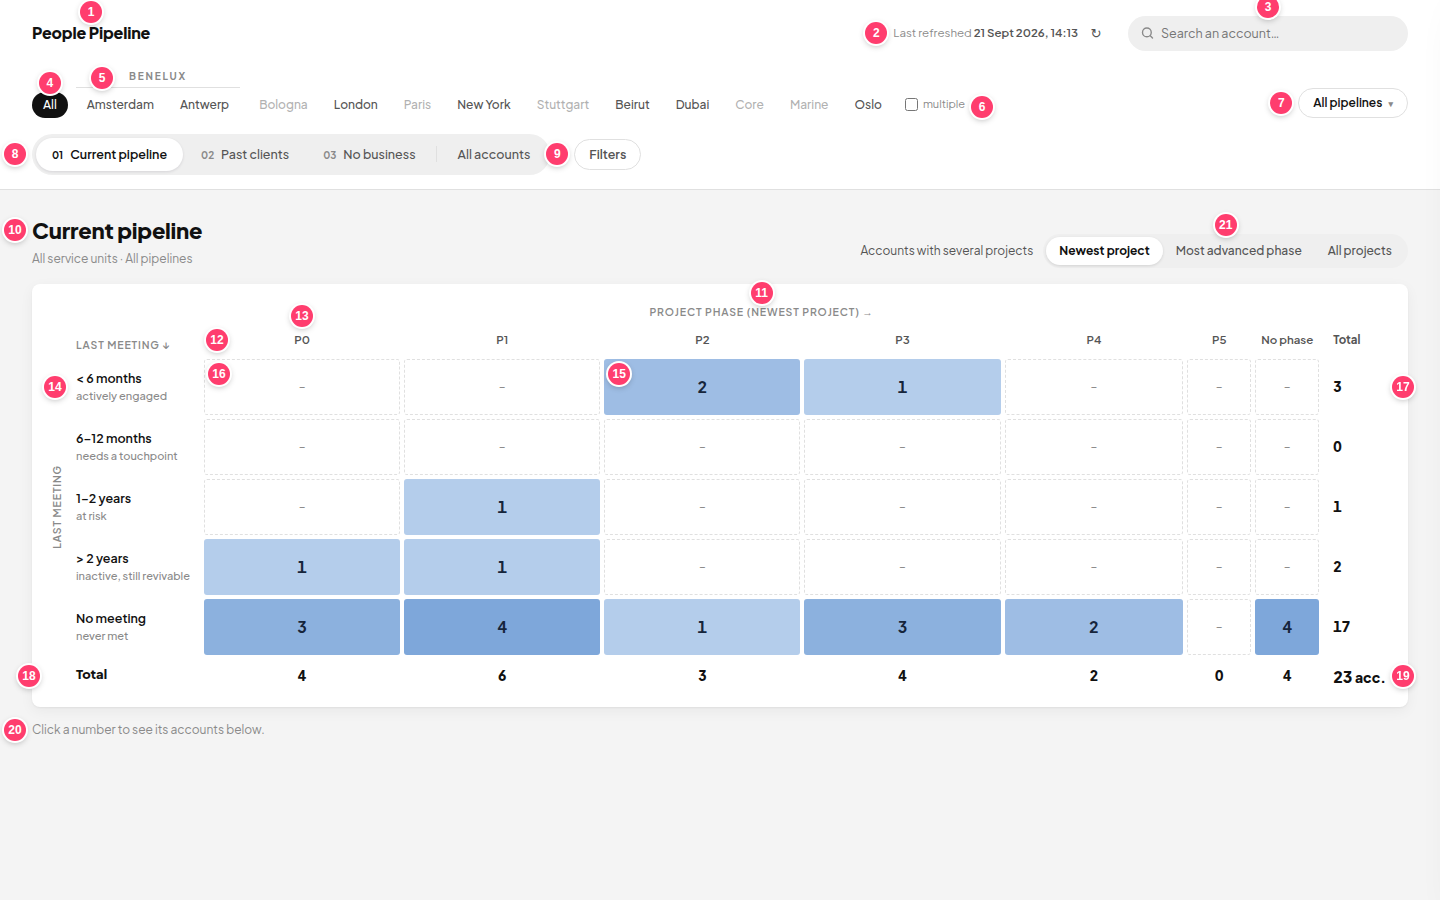
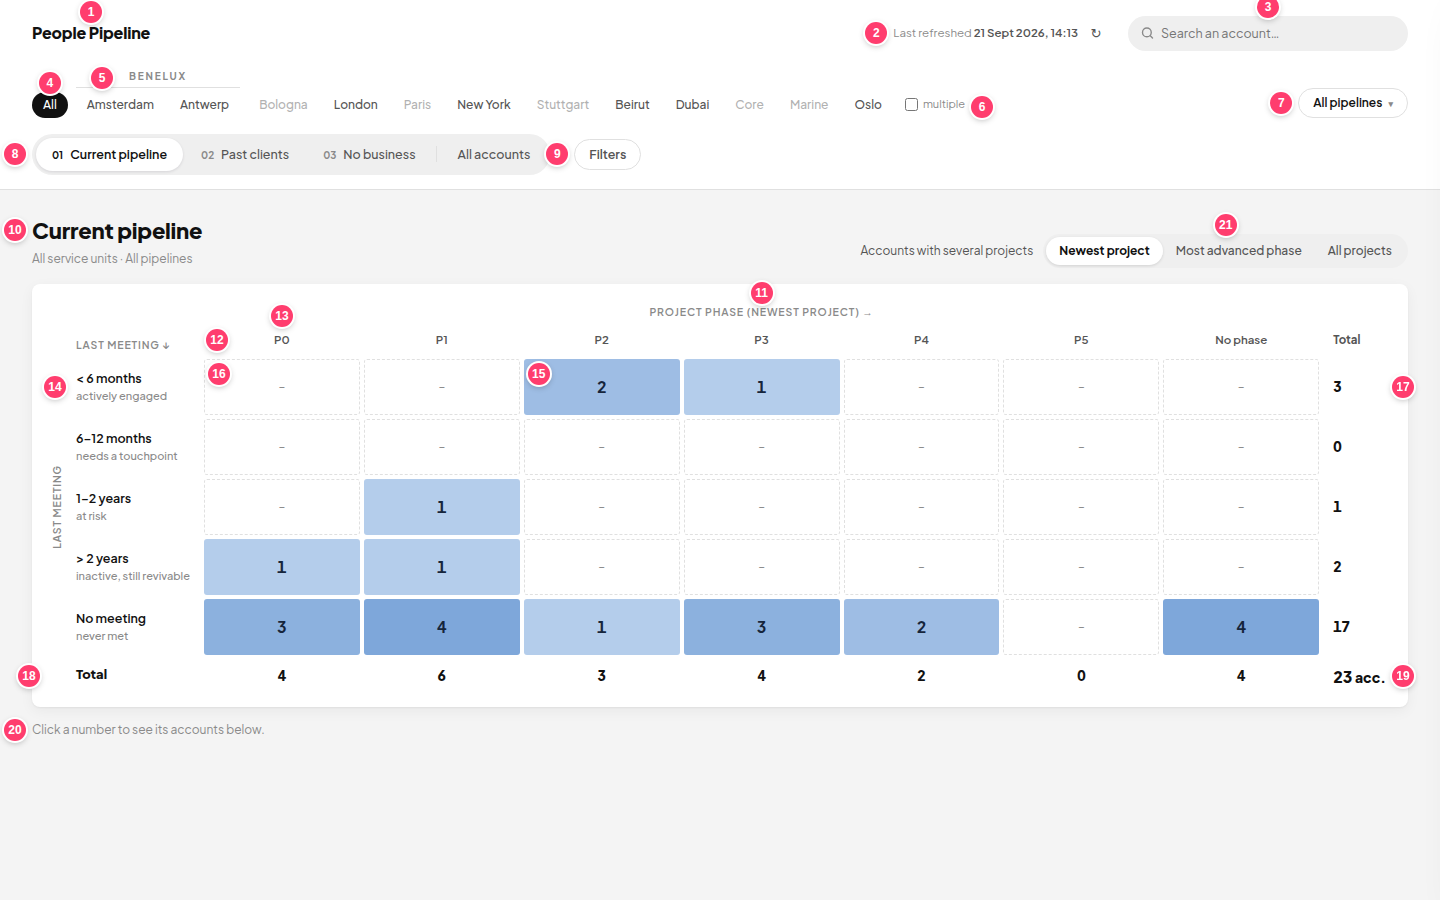
Matrix: every data column gets the same width (Total stays narrow)
The fixed 20% per column ran out after 5 columns, so P5 / No phase were
squeezed. Each data column now gets an equal share of the width.

Claude-Session: https://claude.ai/code/session_01RUoswuWJA3sgR5x3oZAChS

diff --git a/app/matrix/matrix-js.html b/app/matrix/matrix-js.html
@@ -135,7 +135,8 @@ function render() {
     ' ↓</th>' +
     cols
       .map(function (c) {
-        return '<th class="col">' + esc(c.t) + '</th>';
+        // every data column gets the same width; the label and Total columns only take what they need
+        return '<th class="col" style="width:' + (94 / cols.length).toFixed(2) + '%">' + esc(c.t) + '</th>';
       })
       .join('') +
     '<th class="tot">Total</th></tr></thead><tbody>';

diff --git a/app/matrix/matrix-css.html b/app/matrix/matrix-css.html
@@ -34,7 +34,6 @@ table.grid {
 
 /* column titles (P0, P1 … / 0–6 months …) */
 .grid th.col {
-  width: 20%; /* the data columns share all the spare width (the other columns are 1%) */
   font-size: 11.5px;
   font-weight: 600;
   color: var(--text-soft);

diff --git a/docs/SCREEN-GUIDE.md b/docs/SCREEN-GUIDE.md
@@ -147,6 +147,7 @@ Also:
 | Change the font | the Google Fonts `<link>` in `app/index.html` + `--font` in `core/base-css.html` |
 | Round or square matrix cells | `--cell-radius` in `core/base-css.html` (0 = square) |
 | Space between the rows of the tables | `border-spacing` on `table.tb` in `table/table-css.html` |
+| Width of the matrix columns | all data columns share the width equally: `render()` in `matrix/matrix-js.html` (the `th.col` width) |
 | Make the matrix cells taller or shorter | `.grid td.c` and `.grid td.c button` (`height`, `min-height`) in `matrix/matrix-css.html` |
 | Change the space between cells | `border-spacing` on `table.grid` in `matrix/matrix-css.html` |
 | Change the text of a toast message | search for `toast(` in the `*-js.html` files |
